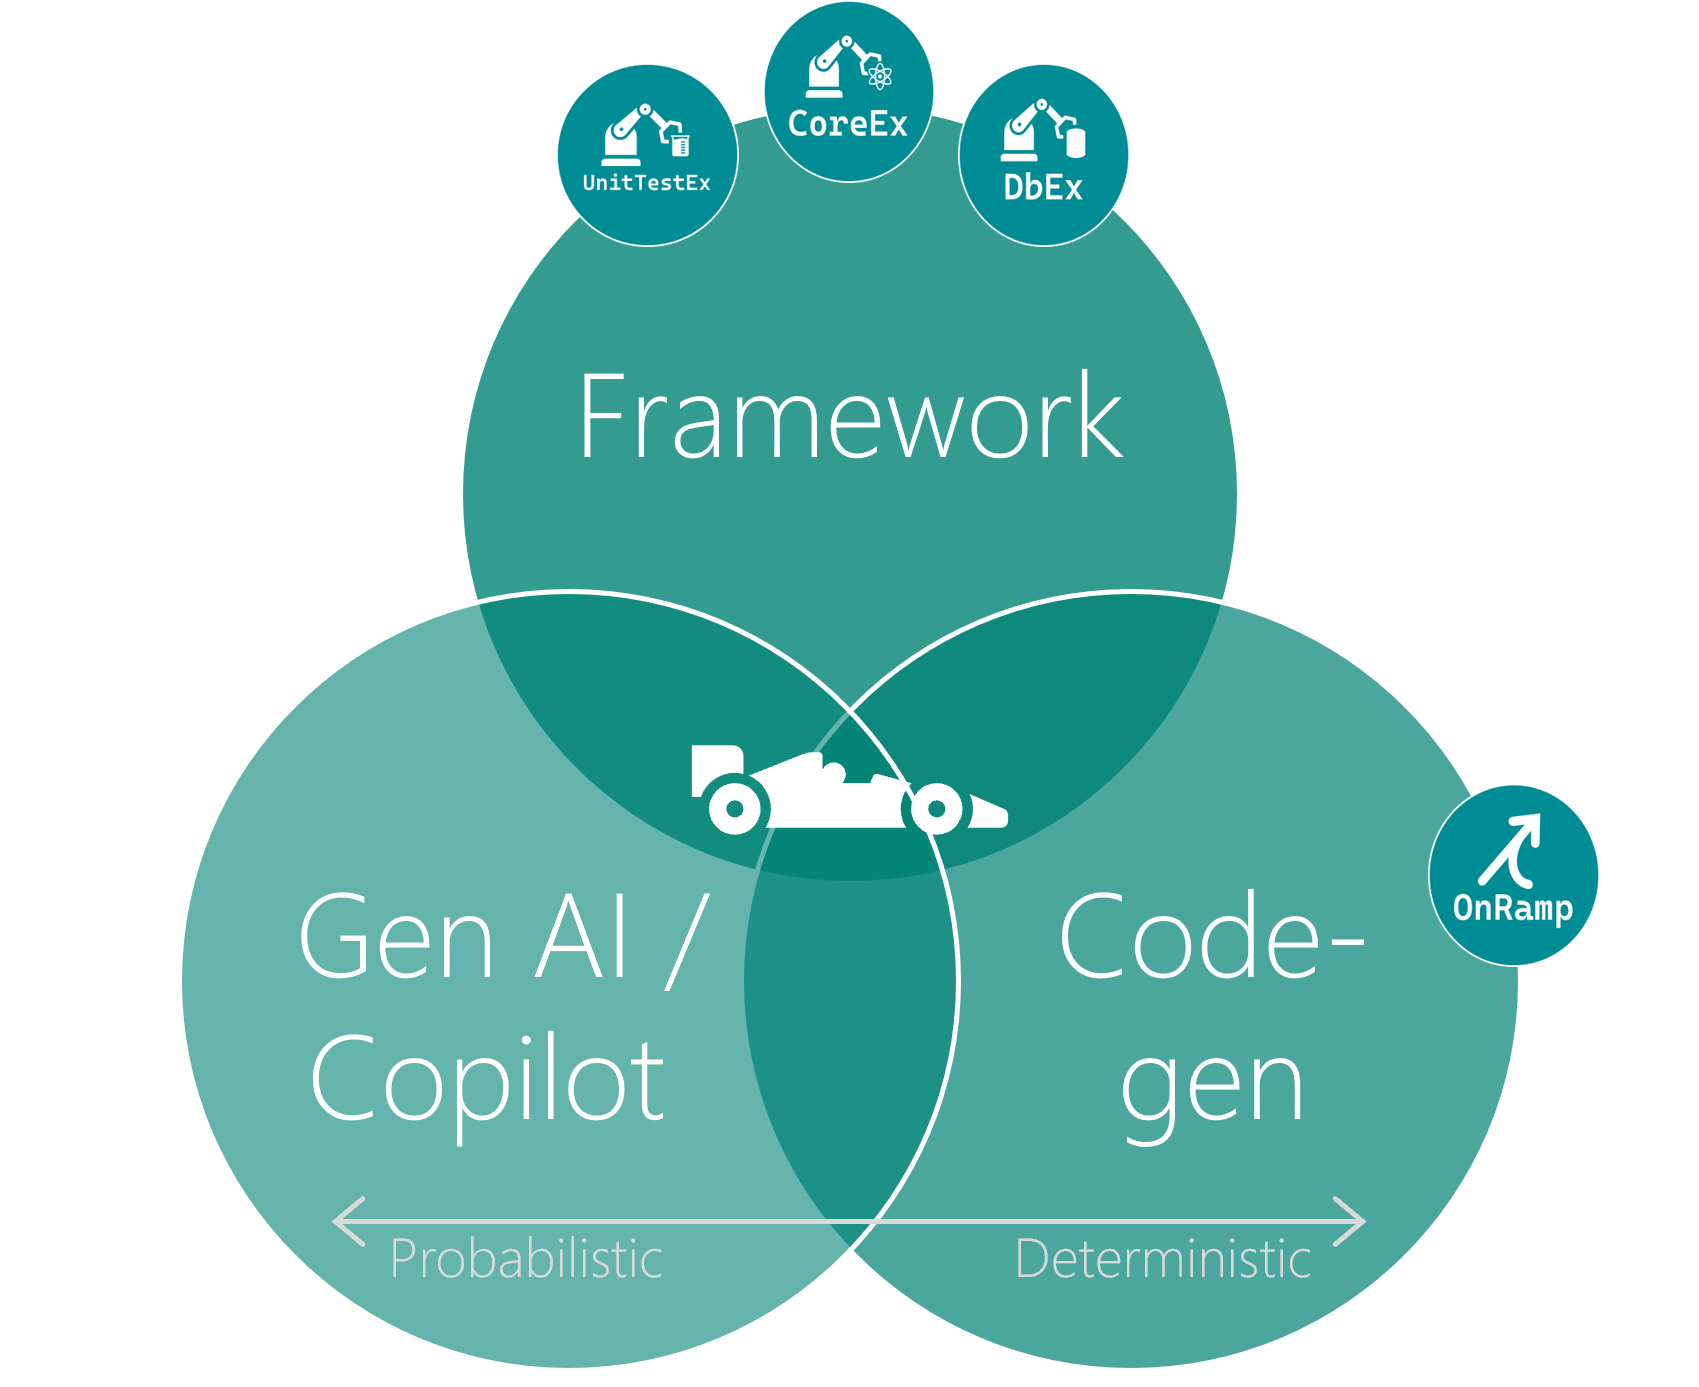
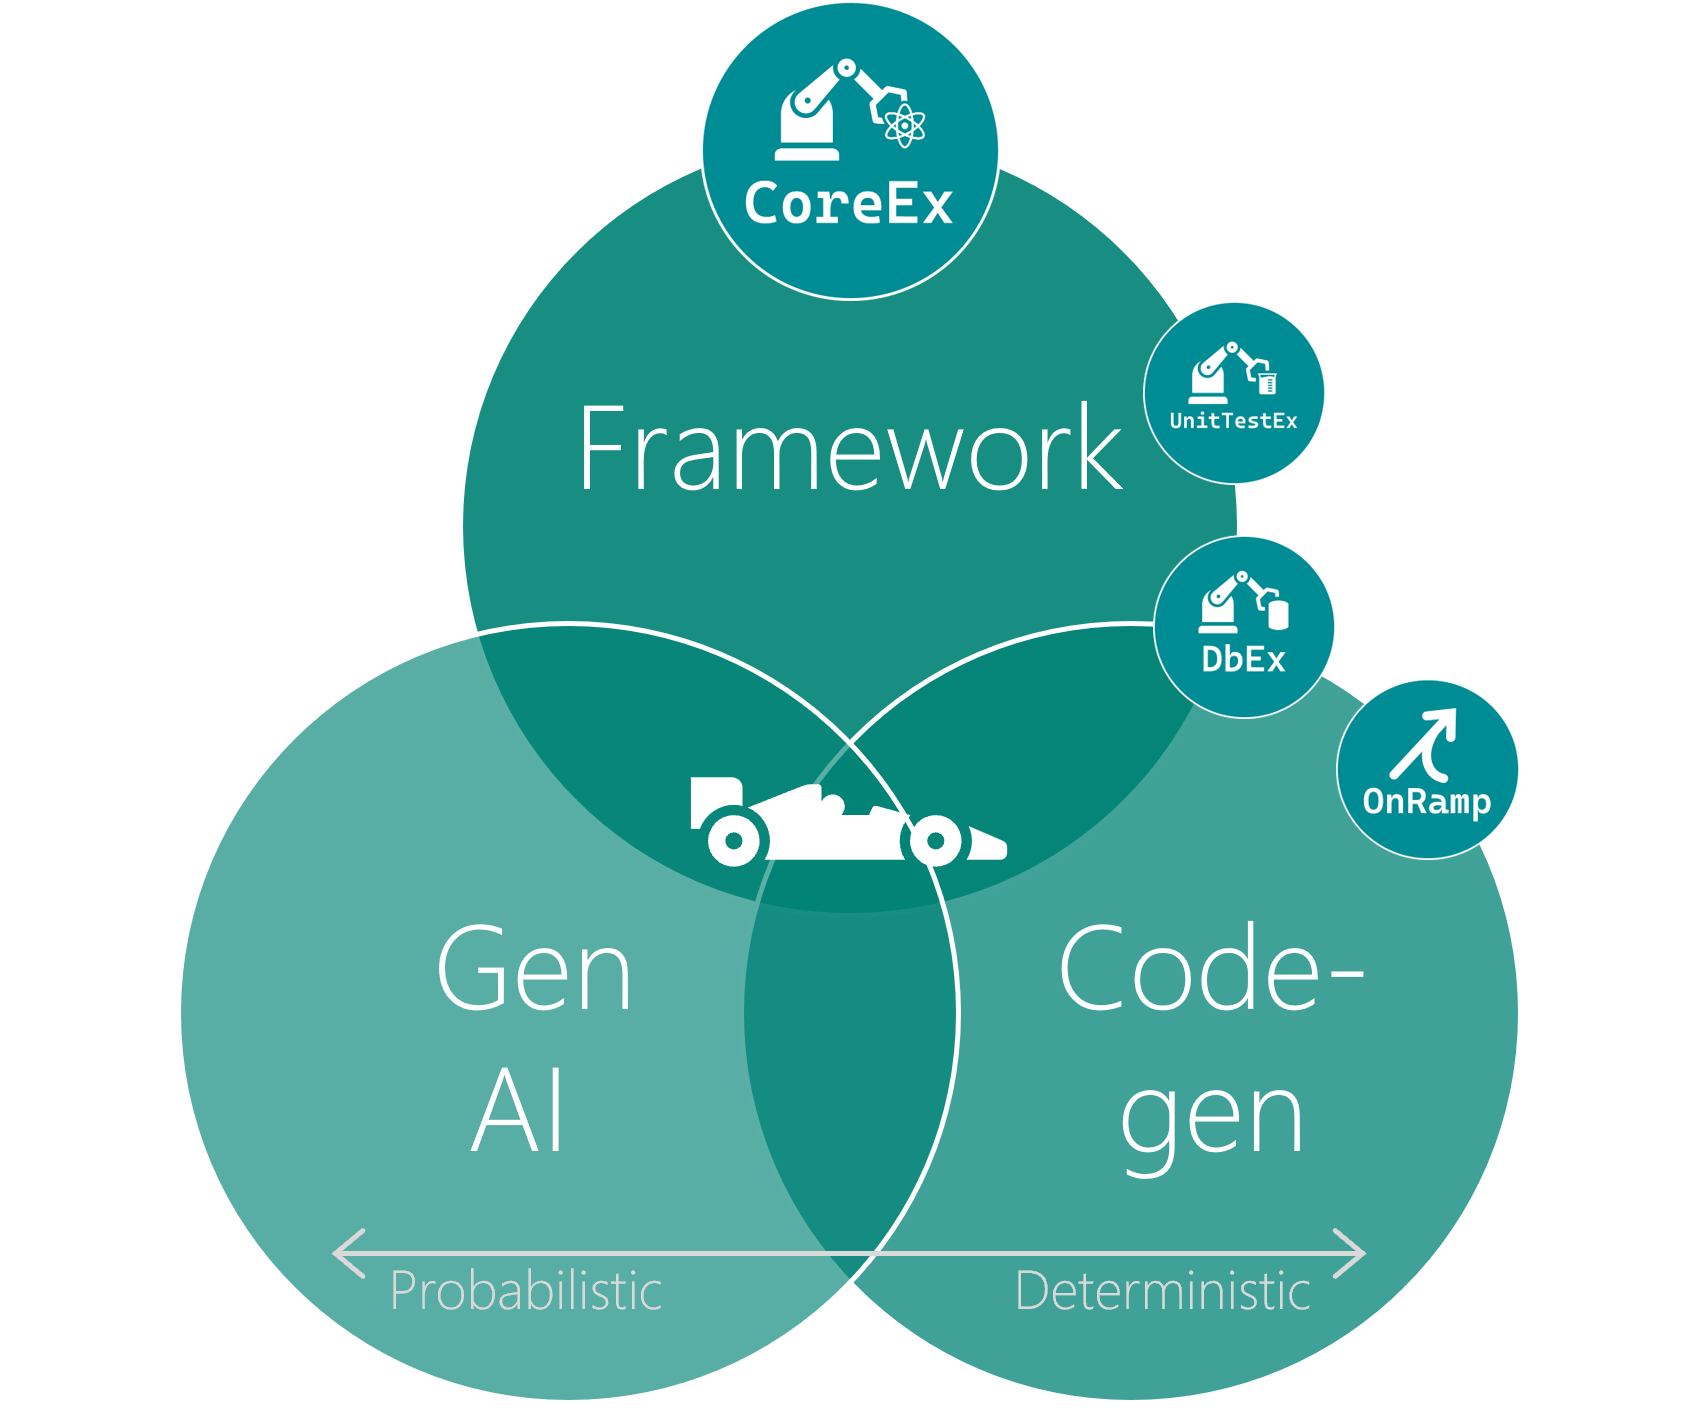
Improvements to the README.

diff --git a/README.md b/README.md
@@ -2,17 +2,43 @@
 
 ![Logo](./images/Logo256x256.png "CoreEx")
 
+**A modular .NET framework for building enterprise back-end services.**
+
+[![CI](https://github.com/Avanade/CoreEx/actions/workflows/CI.yml/badge.svg)](https://github.com/Avanade/CoreEx/actions/workflows/CI.yml) [![NuGet version](https://img.shields.io/nuget/vpre/CoreEx)](https://www.nuget.org/packages/CoreEx/absoluteLatest) [![License: MIT](https://img.shields.io/badge/License-MIT-blue.svg)](./LICENCE)
+
 ## Introduction
 
 _CoreEx_ is a modular .NET framework for building enterprise back-end services. It addresses the recurring concerns that .NET leaves to each team to solve independently: shaping business rule failures into consistent HTTP responses, publishing and subscribing to domain events, implementing reference data with caching and validity, enforcing validation with structured error messages, and wiring data access across ADO.NET and Entity Framework Core with a shared unit-of-work model.
 
 The solution is composed of focused, independently consumable packages — `CoreEx` provides the shared runtime primitives, and each additional package (`CoreEx.AspNetCore`, `CoreEx.Events`, `CoreEx.Database`, `CoreEx.Validation`, etc.) adds a specific capability layer. Teams adopt only what they need.
 
+## Table of Contents
+
+The remainder of this README is organized into the following sections.
+
+- [Motivation](#motivation)
+- [Better Together](#better-together)
+- [Design Principles](#design-principles)
+- [Key Capabilities](#key-capabilities)
+- [Patterns in Practice](#patterns-in-practice)
+- [Version 4 (preview)](#version-4-preview)
+- [Status](#status)
+- [Getting Started](#getting-started)
+- [Samples](#samples)
+- [AI](#ai)
+- [License](#license)
+- [Contributing](#contributing)
+- [Security](#security)
+- [Who is Avanade?](#who-is-avanade)
+
 ## Motivation
 
-- **Standardize** the scenarios .NET leaves open — there is no built-in standard for mapping a `NotFoundException` to HTTP 404, expressing a concurrency conflict as a `ProblemDetails` response, or publishing a domain event transactionally alongside a database commit. _CoreEx_ provides consistent, opinionated implementations of these patterns so every service in an organization behaves the same way.
-- **Simplify** development by eliminating the boilerplate that accumulates around every API endpoint and data operation — execution context scoping, idempotency key handling, paged query translation, outbox relay, ETag management, change-log stamping — freeing teams to focus on business logic rather than infrastructure ceremony.
-- **Enable flexibility** through opt-in modularity and composability — each package is an independent add-on, _CoreEx_ does not mandate an architectural style, and its abstractions (`IMapper`, `IUnitOfWork`, `IHybridCache`, `IEventPublisher`) are designed to be replaced or extended without disrupting the rest of the solution.
+_CoreEx_ is intended to be the foundational library for any business-service implementation — the motivation for adopting it comes down to four things:
+
+- **Value** — focus on business-value delivery; stop re-inventing the same foundational plumbing on every project.
+- **Velocity** — reduce cost and time-to-market by inheriting foundational capabilities rather than building them up-front.
+- **Consistency** — encapsulate complexity behind proven patterns so every service is familiar to build and predictable to run.
+- **Confidence** — improve quality and reduce delivery risk by leaning on capabilities that are already proven and tested.
 
 ## Better Together
 
@@ -25,6 +51,15 @@ The greatest developer velocity gains come not from any single capability, but f
 - **Gen AI / Copilot** — accelerates the development of the unique business value that only your organisation can deliver. AI assistance — probabilistic and context-aware — augments engineers during coding, testing, and review, compressing the feedback loop between idea and production-ready solution.
 
 Where all three converge, the compound effect is multiplicative: the framework constrains the solution space so AI suggestions land in the right patterns; code-generation handles the deterministic heavy lifting so AI can focus on novel logic; and AI in turn accelerates how quickly teams adopt, extend, and validate both.
+
+## Design Principles
+
+The following principles shape how _CoreEx_ approaches the problem space:
+
+- **Standardize** the scenarios .NET leaves open — there is no built-in standard for mapping a `NotFoundException` to HTTP 404, expressing a concurrency conflict as a `ProblemDetails` response, or publishing a domain event transactionally alongside a database commit. _CoreEx_ provides consistent, opinionated implementations of these patterns so every service in an organization behaves the same way.
+- **Simplify** development by eliminating the boilerplate that accumulates around every API endpoint and data operation — execution context scoping, idempotency key handling, paged query translation, outbox relay, ETag management, change-log stamping — freeing teams to focus on business logic rather than infrastructure ceremony.
+- **Codify** established enterprise architectural patterns — DDD aggregates and value objects, layered/hexagonal architecture, CQRS-style read/write separation, the transactional outbox, and Railway-Oriented Programming — as first-class, reusable building blocks instead of bespoke, per-team reinventions.
+- **Enable flexibility** through opt-in modularity and composability — each package is an independent add-on, _CoreEx_ does not mandate an architectural style, and its abstractions (`IMapper`, `IUnitOfWork`, `IHybridCache`, `IEventPublisher`) are designed to be replaced or extended without disrupting the rest of the solution.
 
 ## Key Capabilities
 
@@ -118,6 +153,8 @@ The included [change log](CHANGELOG.md) details all key changes per published ve
 
 ## Getting Started
 
+**Requirements**: CoreEx targets .NET 8, 9, and 10 (`net8.0`, `net9.0`, `net10.0`). Infrastructure dependencies — SQL Server or PostgreSQL, Azure Service Bus, Redis — are opt-in per package; take only what the packages you use require.
+
 → **[Getting Started Guide](./docs/getting-started.md)** — install the template pack, scaffold a new solution, start local infrastructure, add API/Relay/Subscribe hosts, and run your first build.
 
 ## Samples
@@ -178,3 +215,5 @@ See our [security disclosure](./SECURITY.md) policy.
 ## Who is Avanade?
 
 [Avanade](https://www.avanade.com) is the leading provider of innovative digital and cloud services, business solutions and design-led experiences on the Microsoft ecosystem, and the power behind the Accenture Microsoft Business Group.
+
+Avanade has invested thousands of hours building and testing _CoreEx_ and its companion accelerators, so consuming teams can focus on their functional deliverables rather than re-building common framework capabilities from scratch.